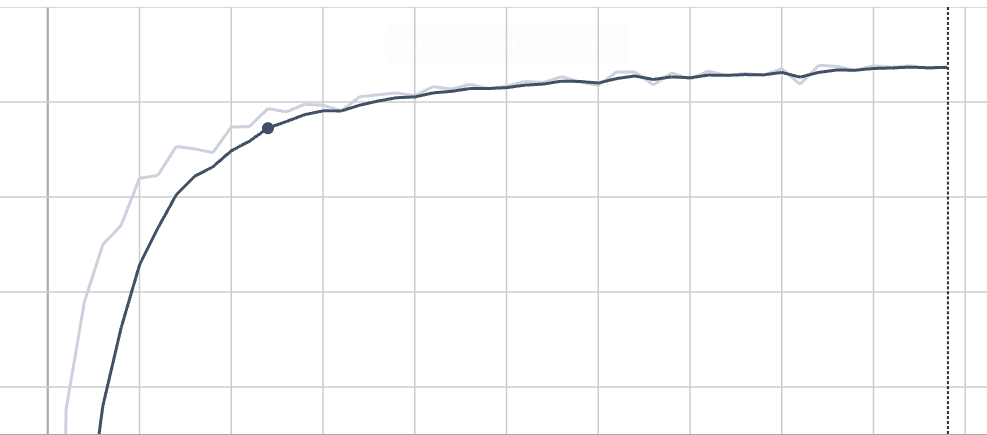
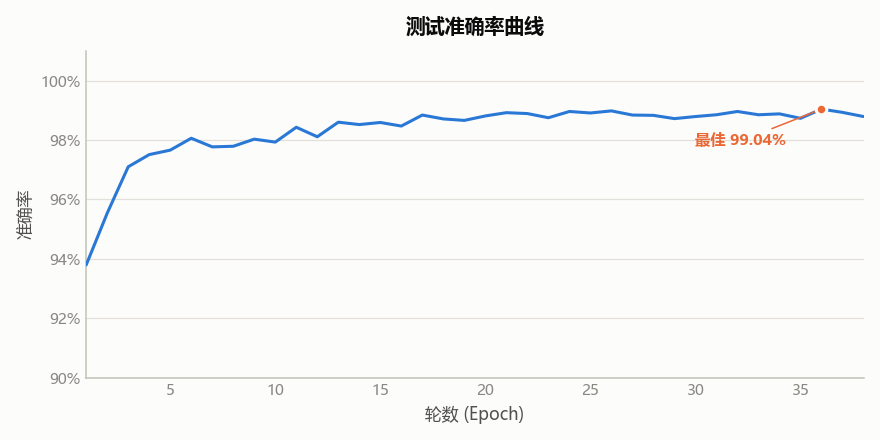
docs(doc): 修改了md文档，更新了最新数据

diff --git a/README.md b/README.md
@@ -4,7 +4,7 @@
 
 ## 项目简介
 
-使用一个简单的 3 层卷积神经网络对 MNIST 手写数字数据集（0-9 共 10 类）进行分类，测试集最佳准确率达到 **98.77%**。
+使用一个简单的 3 层卷积神经网络对 MNIST 手写数字数据集（0-9 共 10 类）进行分类，测试集最佳准确率达到 **99.04%**。
 
 ## 项目结构
 
@@ -78,7 +78,7 @@ patience = 10   # 连续多少个 epoch 准确率无提升则提前停止
 
 | 指标 | 值 |
 | --- | --- |
-| 最佳测试集准确率 | **98.77%** |
+| 最佳测试集准确率 | **99.04%** |
 
 **训练损失曲线**
 
